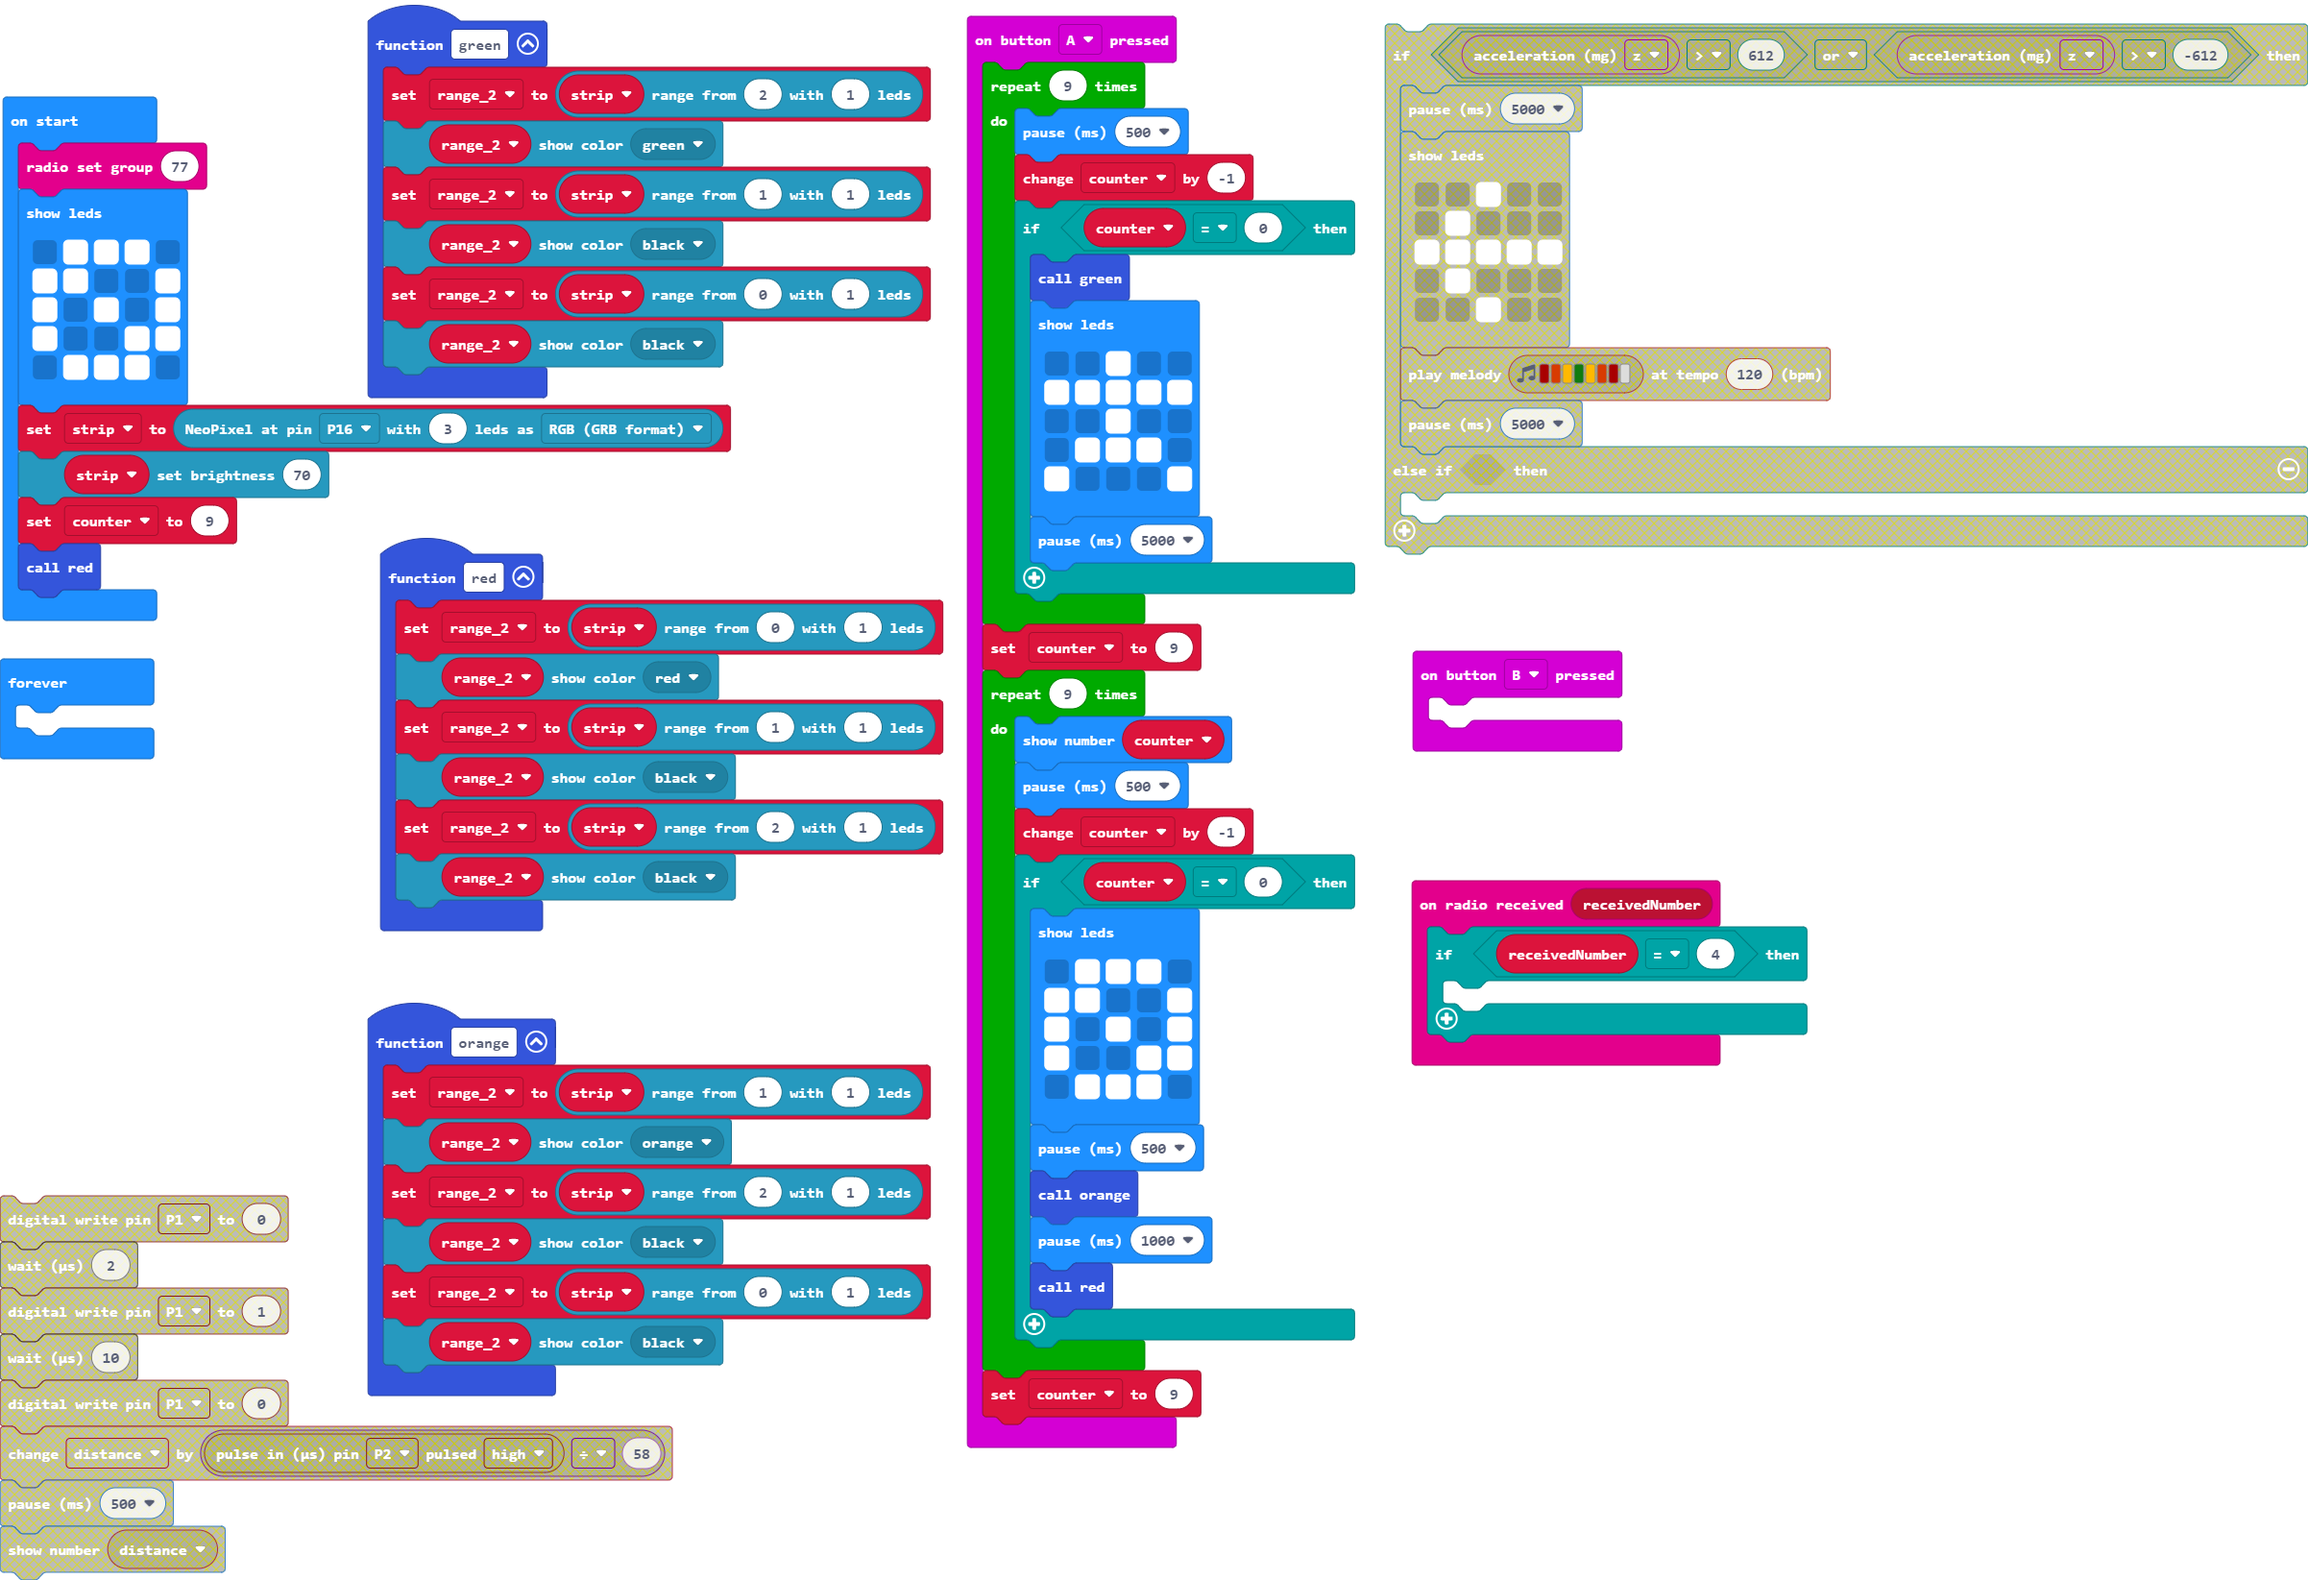
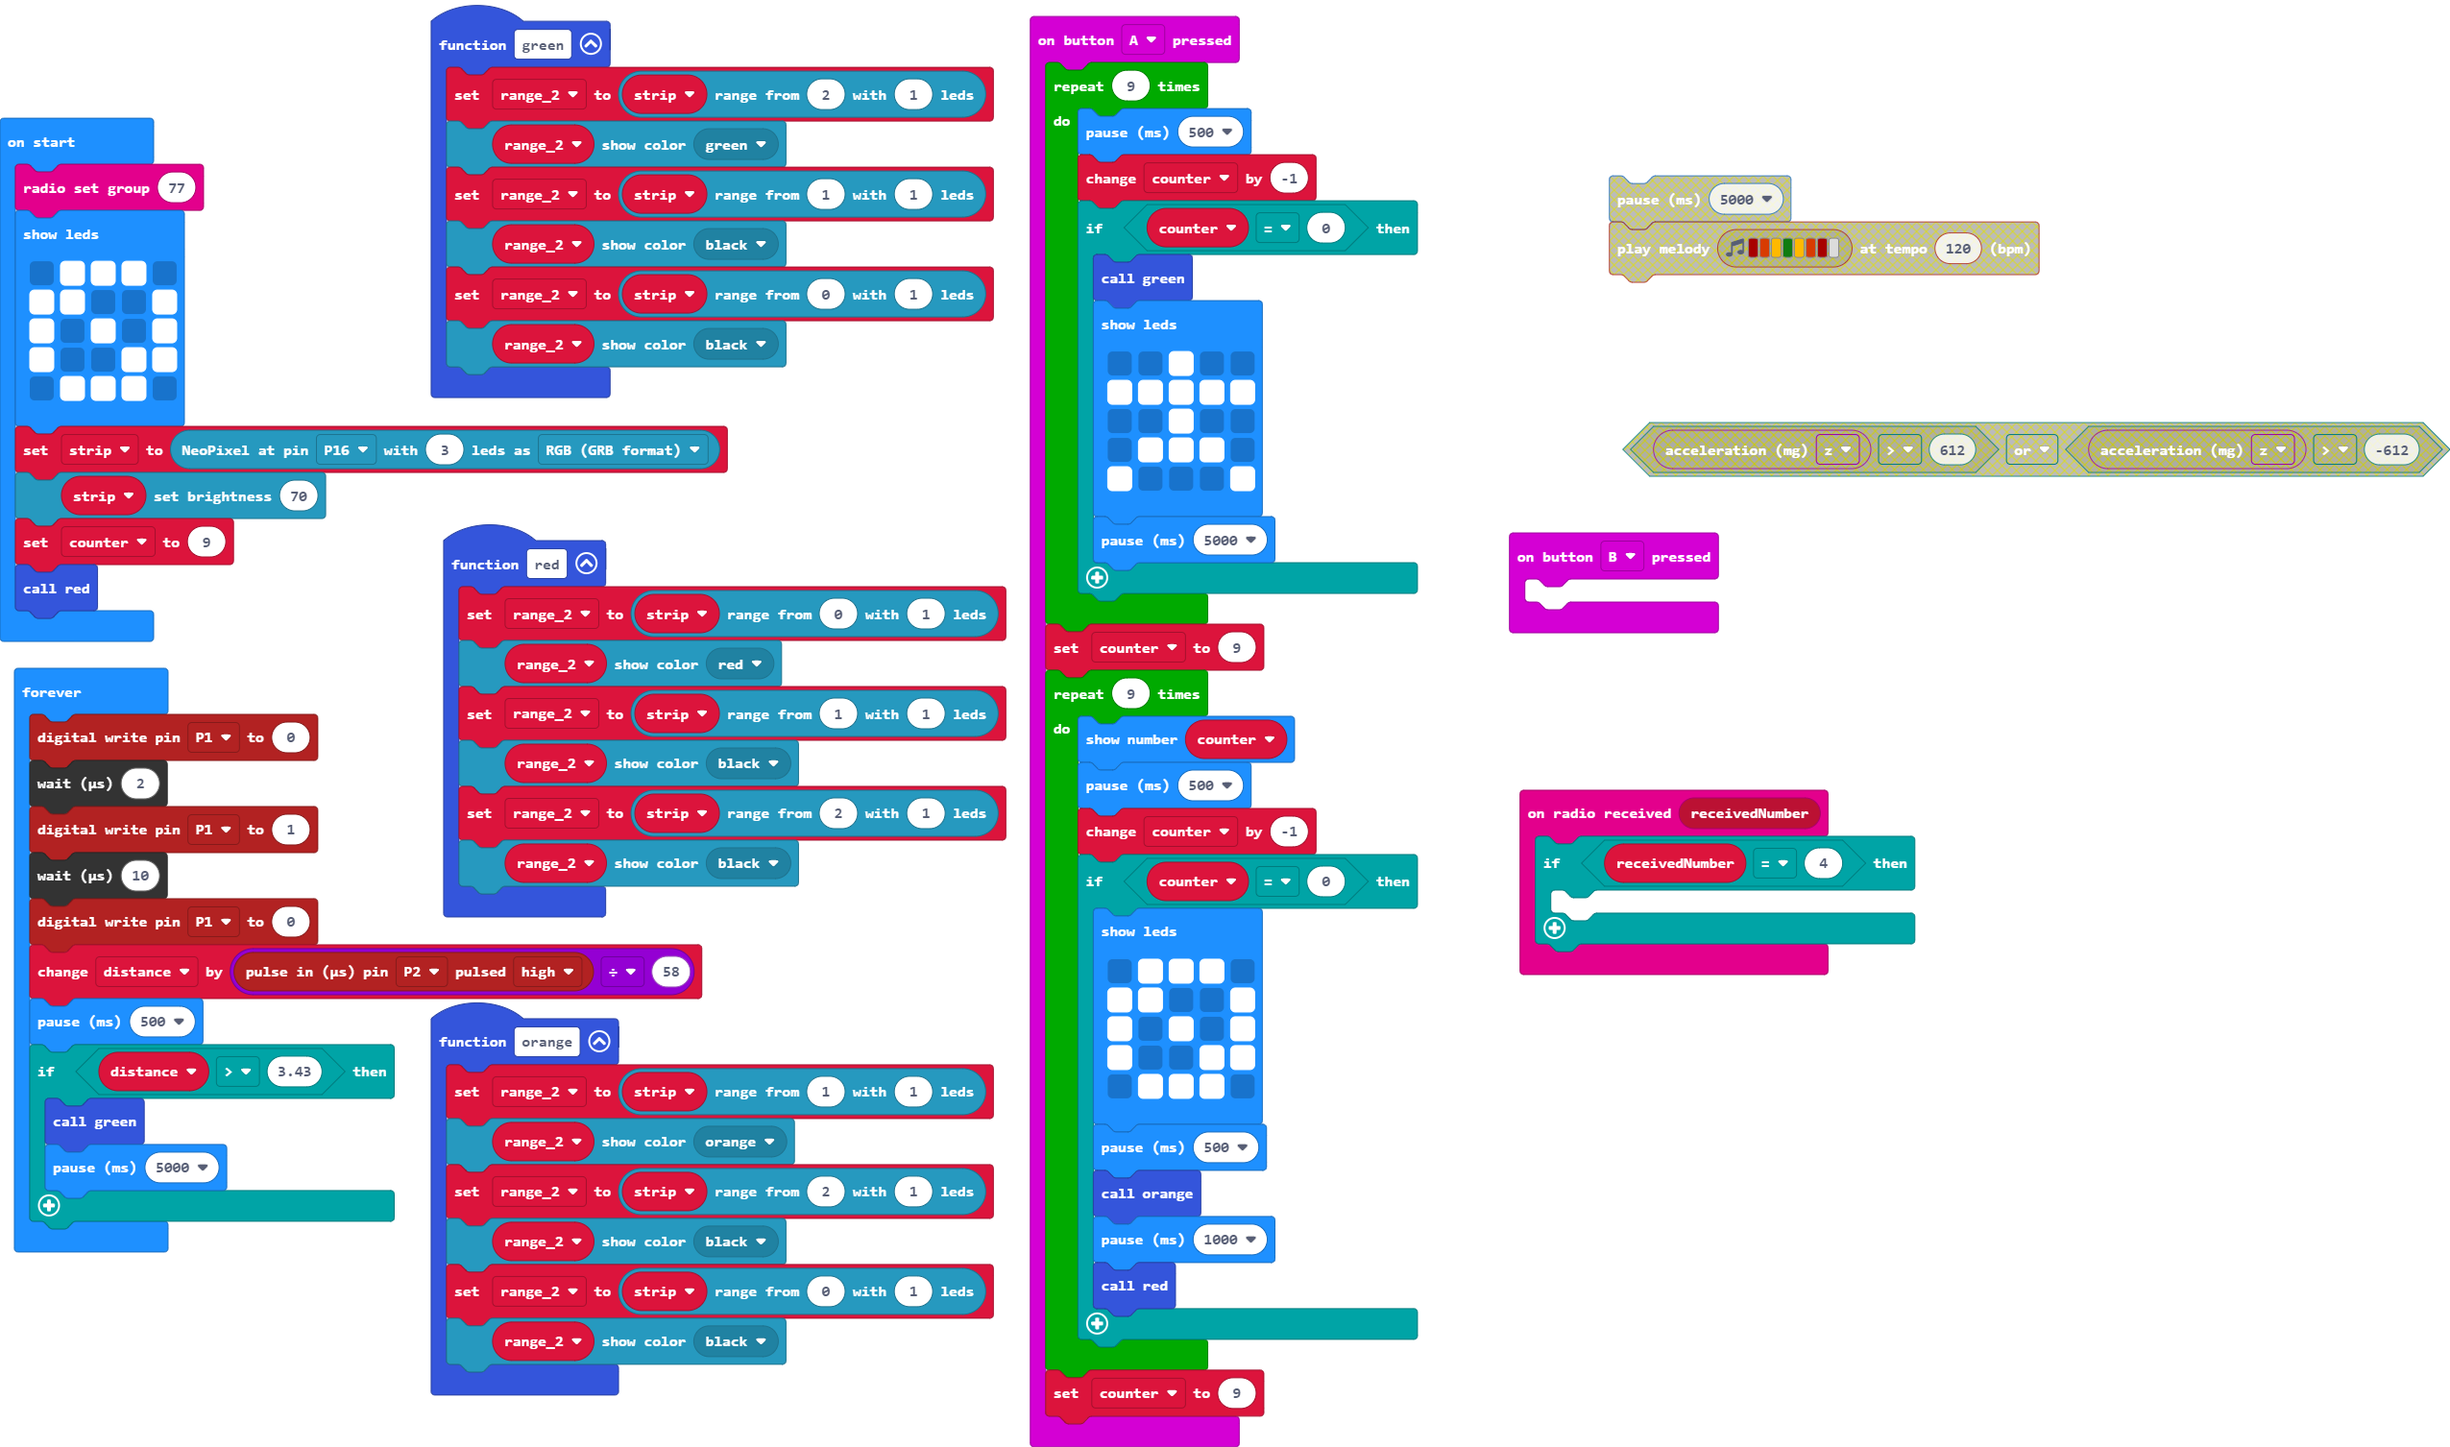
Update main.blocks, main.ts

diff --git a/main.ts b/main.ts
@@ -67,6 +67,7 @@ function red () {
     range_2 = strip.range(2, 1)
     range_2.showColor(neopixel.colors(NeoPixelColors.Black))
 }
+let distance = 0
 let range_2: neopixel.Strip = null
 let counter = 0
 let strip: neopixel.Strip = null
@@ -83,5 +84,15 @@ strip.setBrightness(70)
 counter = 9
 red()
 basic.forever(function () {
-	
+    pins.digitalWritePin(DigitalPin.P1, 0)
+    control.waitMicros(2)
+    pins.digitalWritePin(DigitalPin.P1, 1)
+    control.waitMicros(10)
+    pins.digitalWritePin(DigitalPin.P1, 0)
+    distance += pins.pulseIn(DigitalPin.P2, PulseValue.High) / 58
+    basic.pause(500)
+    if (distance > 3.43) {
+        green()
+        basic.pause(5000)
+    }
 })
